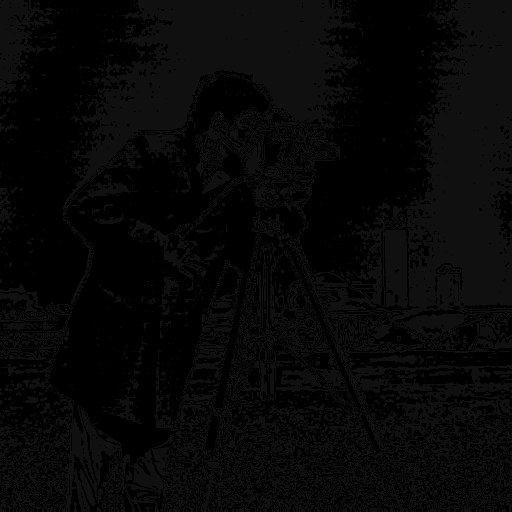
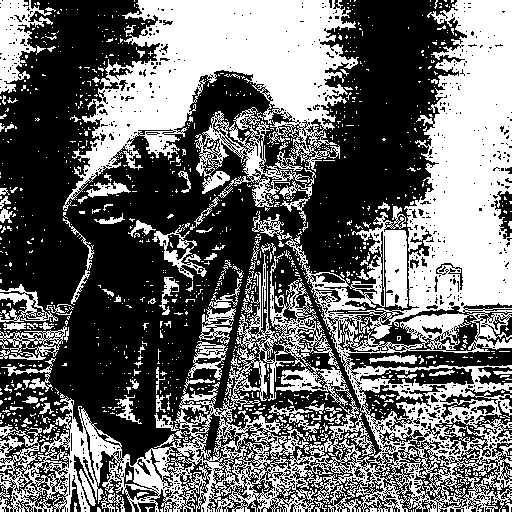
updated images and file paths

diff --git a/Interpolation, Point Operations, Histogram Methods/lena_mse.py b/Interpolation, Point Operations, Histogram Methods/lena_mse.py
@@ -8,12 +8,12 @@ def mse(img1, img2):
     return mse_value
 
 # LOAD IMAGES
-lena = cv2.imread("C:\\Users\\imanc\\Documents\\FALL24\\CP467-ImageProccesing\\A1\\A1_chau0820\\Images\\lena.tif", 0)
-lena_nearest_scratch = cv2.imread("C:\\Users\\imanc\\Documents\\FALL24\\CP467-ImageProccesing\\A1\\A1_chau0820\\lena_nearest_scratch.png", 0)
-lena_nearest_cv = cv2.imread("C:\\Users\\imanc\\Documents\\FALL24\\CP467-ImageProccesing\\A1\\A1_chau0820\\lena_nearest_cv.png", 0)
-lena_bilinear_scratch = cv2.imread("C:\\Users\\imanc\\Documents\\FALL24\\CP467-ImageProccesing\\A1\\A1_chau0820\\lena_bilinear_scratch.png", 0)
-lena_bilinear_cv = cv2.imread("C:\\Users\\imanc\\Documents\\FALL24\\CP467-ImageProccesing\\A1\\A1_chau0820\\lena_bilinear_cv.png", 0)
-lena_bicubic_cv = cv2.imread("C:\\Users\\imanc\\Documents\\FALL24\\CP467-ImageProccesing\\A1\\A1_chau0820\\lena_bicubic_cv.png", 0)
+lena = cv2.imread('Images/lena.tif', cv2.IMREAD_GRAYSCALE)
+lena_nearest_scratch = cv2.imread('lena_nearest_scratch.png', cv2.IMREAD_GRAYSCALE)
+lena_nearest_cv = cv2.imread('lena_nearest_cv.png', cv2.IMREAD_GRAYSCALE)
+lena_bilinear_scratch = cv2.imread('lena_bilinear_scratch.png', cv2.IMREAD_GRAYSCALE)
+lena_bilinear_cv = cv2.imread('lena_bilinear_cv.png', cv2.IMREAD_GRAYSCALE)
+lena_bicubic_cv = cv2.imread('lena_bicubic_cv.png', cv2.IMREAD_GRAYSCALE)
 
 # MSE CALC
 mse_nearest_scratch = mse(lena, lena_nearest_scratch)

diff --git a/Interpolation, Point Operations, Histogram Methods/histogram_processing.py b/Interpolation, Point Operations, Histogram Methods/histogram_processing.py
@@ -3,9 +3,9 @@ import numpy as np
 import matplotlib.pyplot as plt
 
 # LOAD IMAGES
-einstein = cv2.imread("C:\\Users\\imanc\\Documents\\FALL24\\CP467-ImageProccesing\\A1\\A1_chau0820\\Images\\einstein.tif", 0)
-chest_xray1 = cv2.imread("C:\\Users\\imanc\\Documents\\FALL24\\CP467-ImageProccesing\\A1\\A1_chau0820\\Images\\chest_x-ray1.jpeg", 0)
-chest_xray2 = cv2.imread("C:\\Users\\imanc\\Documents\\FALL24\\CP467-ImageProccesing\\A1\\A1_chau0820\\Images\\chest_x-ray2.jpeg", 0)
+einstein = cv2.imread('Images/einstein.tif', cv2.IMREAD_GRAYSCALE)
+chest_xray1 = cv2.imread('Images/chest_x-ray1.jpeg', cv2.IMREAD_GRAYSCALE)
+chest_xray2 = cv2.imread('Images/chest_x-ray2.jpeg', cv2.IMREAD_GRAYSCALE)
 
 # HISTOGRAM EQUILIZATION
 einstein_array = np.asarray(einstein)

diff --git a/Interpolation, Point Operations, Histogram Methods/point_operations.py b/Interpolation, Point Operations, Histogram Methods/point_operations.py
@@ -2,7 +2,7 @@ import cv2
 import numpy as np
 
 # LOAD CAMERAMAN IMAGE
-cameraman = cv2.imread("C:\\Users\\imanc\\Documents\\FALL24\\CP467-ImageProccesing\\A1\\A1_chau0820\\Images\\cameraman.tif", 0)
+cameraman = cv2.imread('Images/cameraman.tif', cv2.IMREAD_GRAYSCALE)
 
 # NEGATIVE 
 def negative(img):
@@ -22,7 +22,7 @@ cv2.imwrite(f"cameraman_power.png", cameraman_power)
 
 # BIT-PLANE SLICING
 def bit_plane_slicing(img, bit):
-    bit_image = ((img >> bit) & 1) * (1 << bit)
+    bit_image = ((img >> bit) & 1) * 255
     return bit_image
 
 for bit in range(8):

diff --git a/Interpolation, Point Operations, Histogram Methods/image_interpolation.py b/Interpolation, Point Operations, Histogram Methods/image_interpolation.py
@@ -2,7 +2,7 @@ import cv2
 import numpy as np
 
 # LOAD GRAYSCALE LENA IMAGE
-lena = cv2.imread("C:\\Users\\imanc\\Documents\\FALL24\\CP467-ImageProccesing\\A1\\A1_chau0820\\Images\\lena.tif", 0)
+lena = cv2.imread('Images/lena.tif', cv2.IMREAD_GRAYSCALE)
 h, w = lena.shape[:2]
 
 # NEAREST NEIGHBOUR scratch
